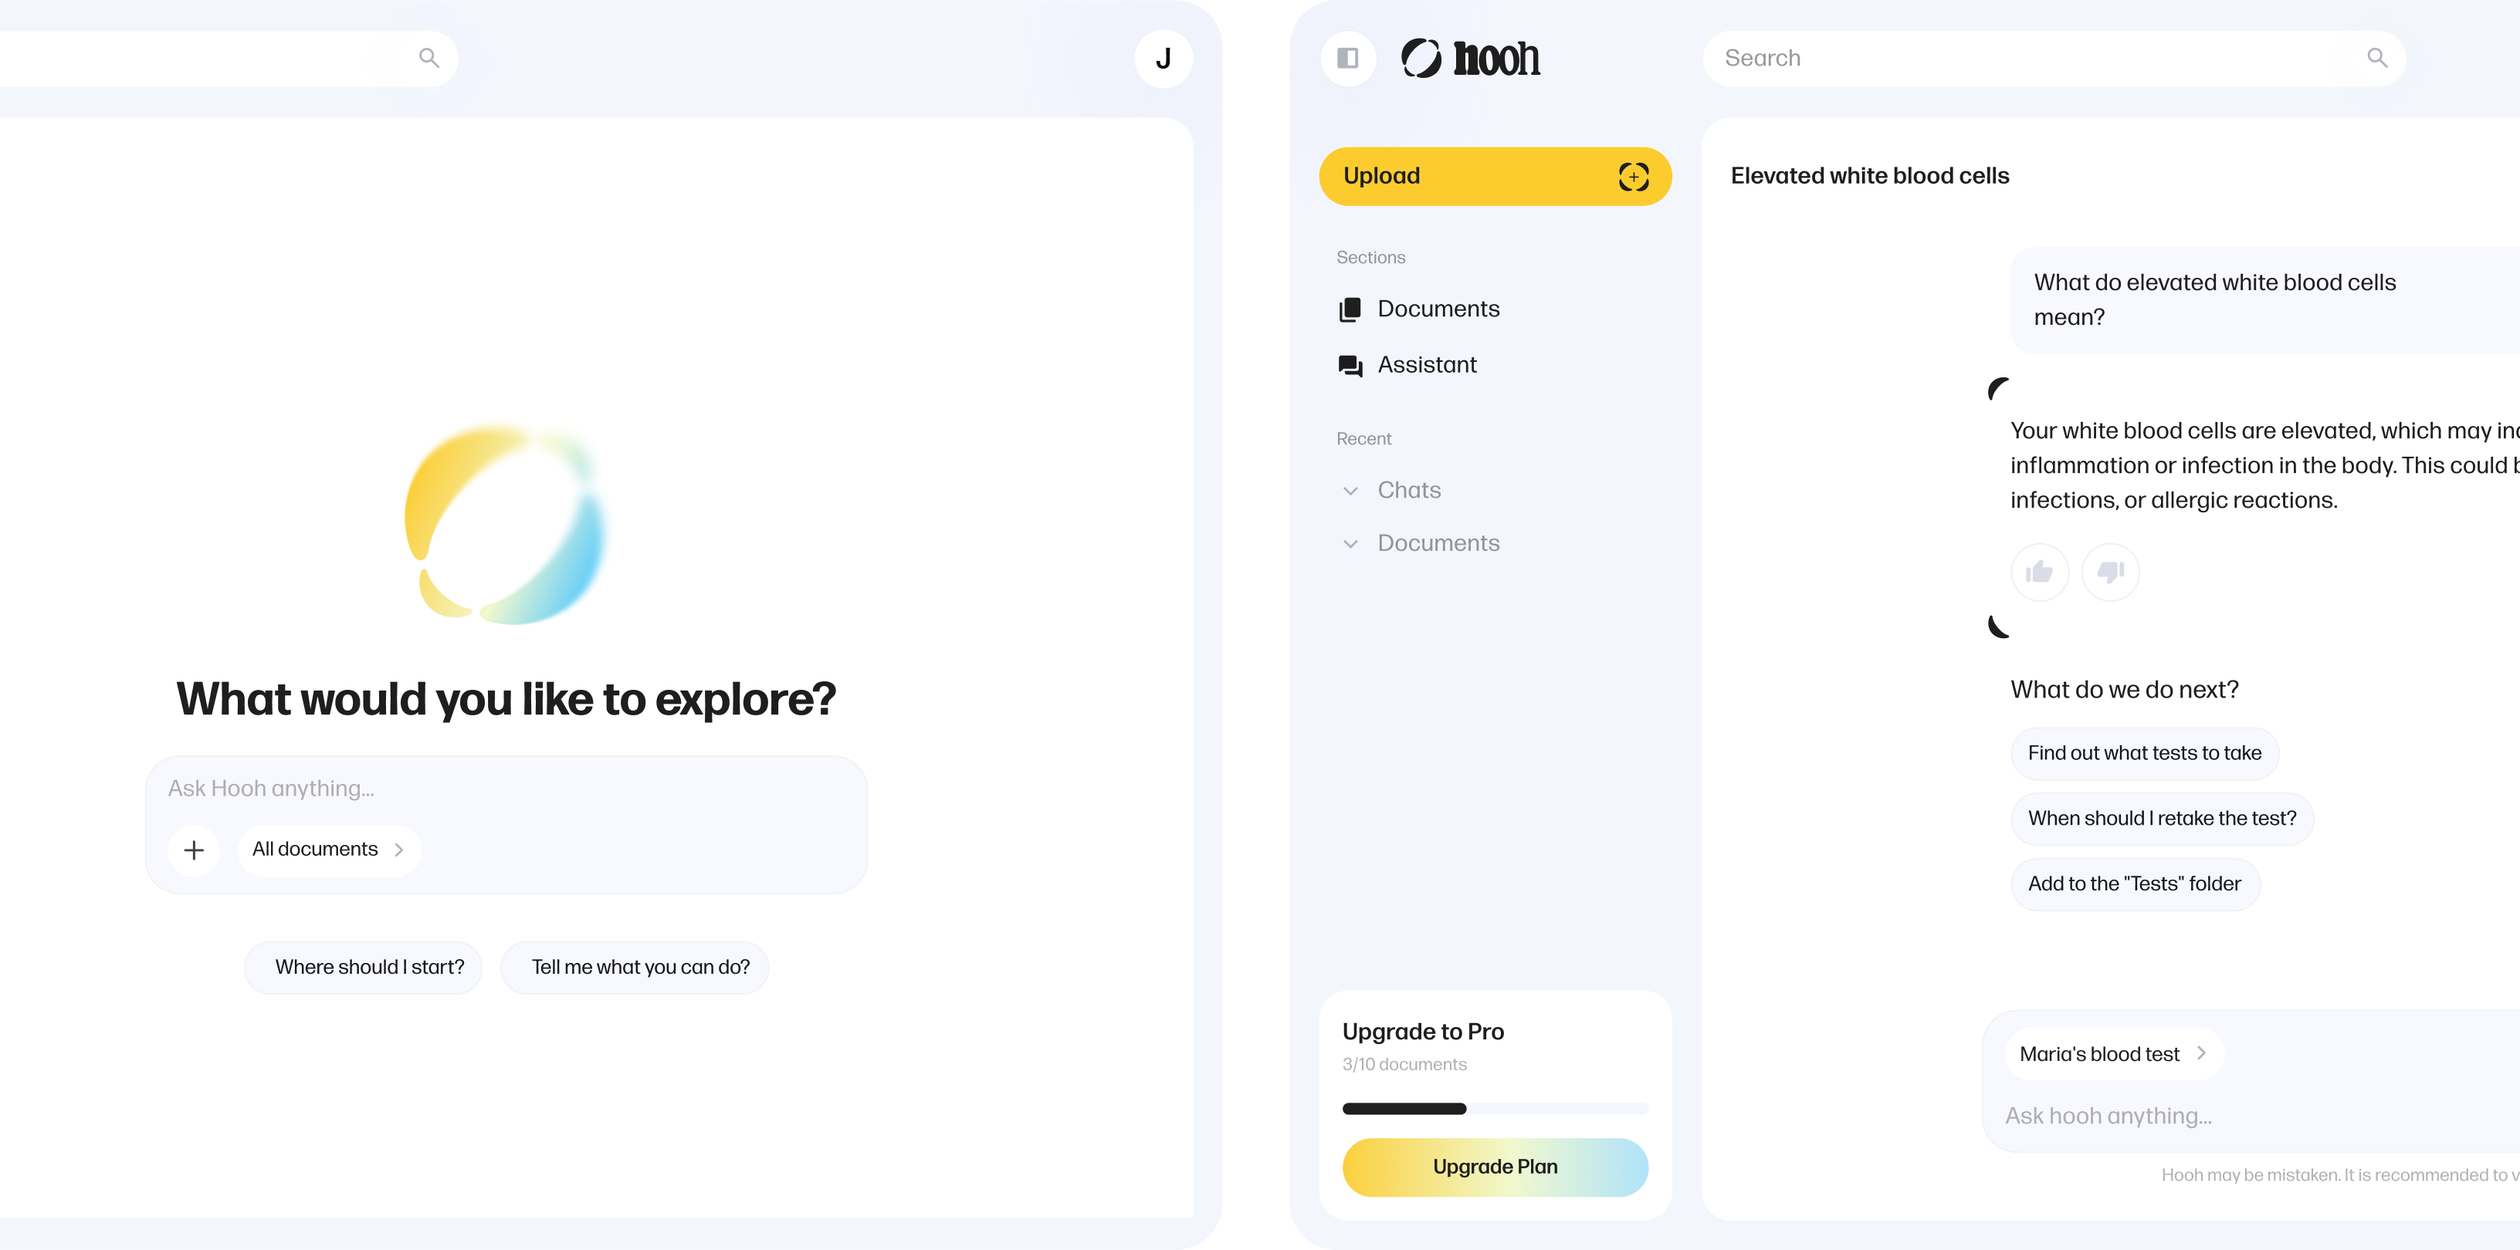
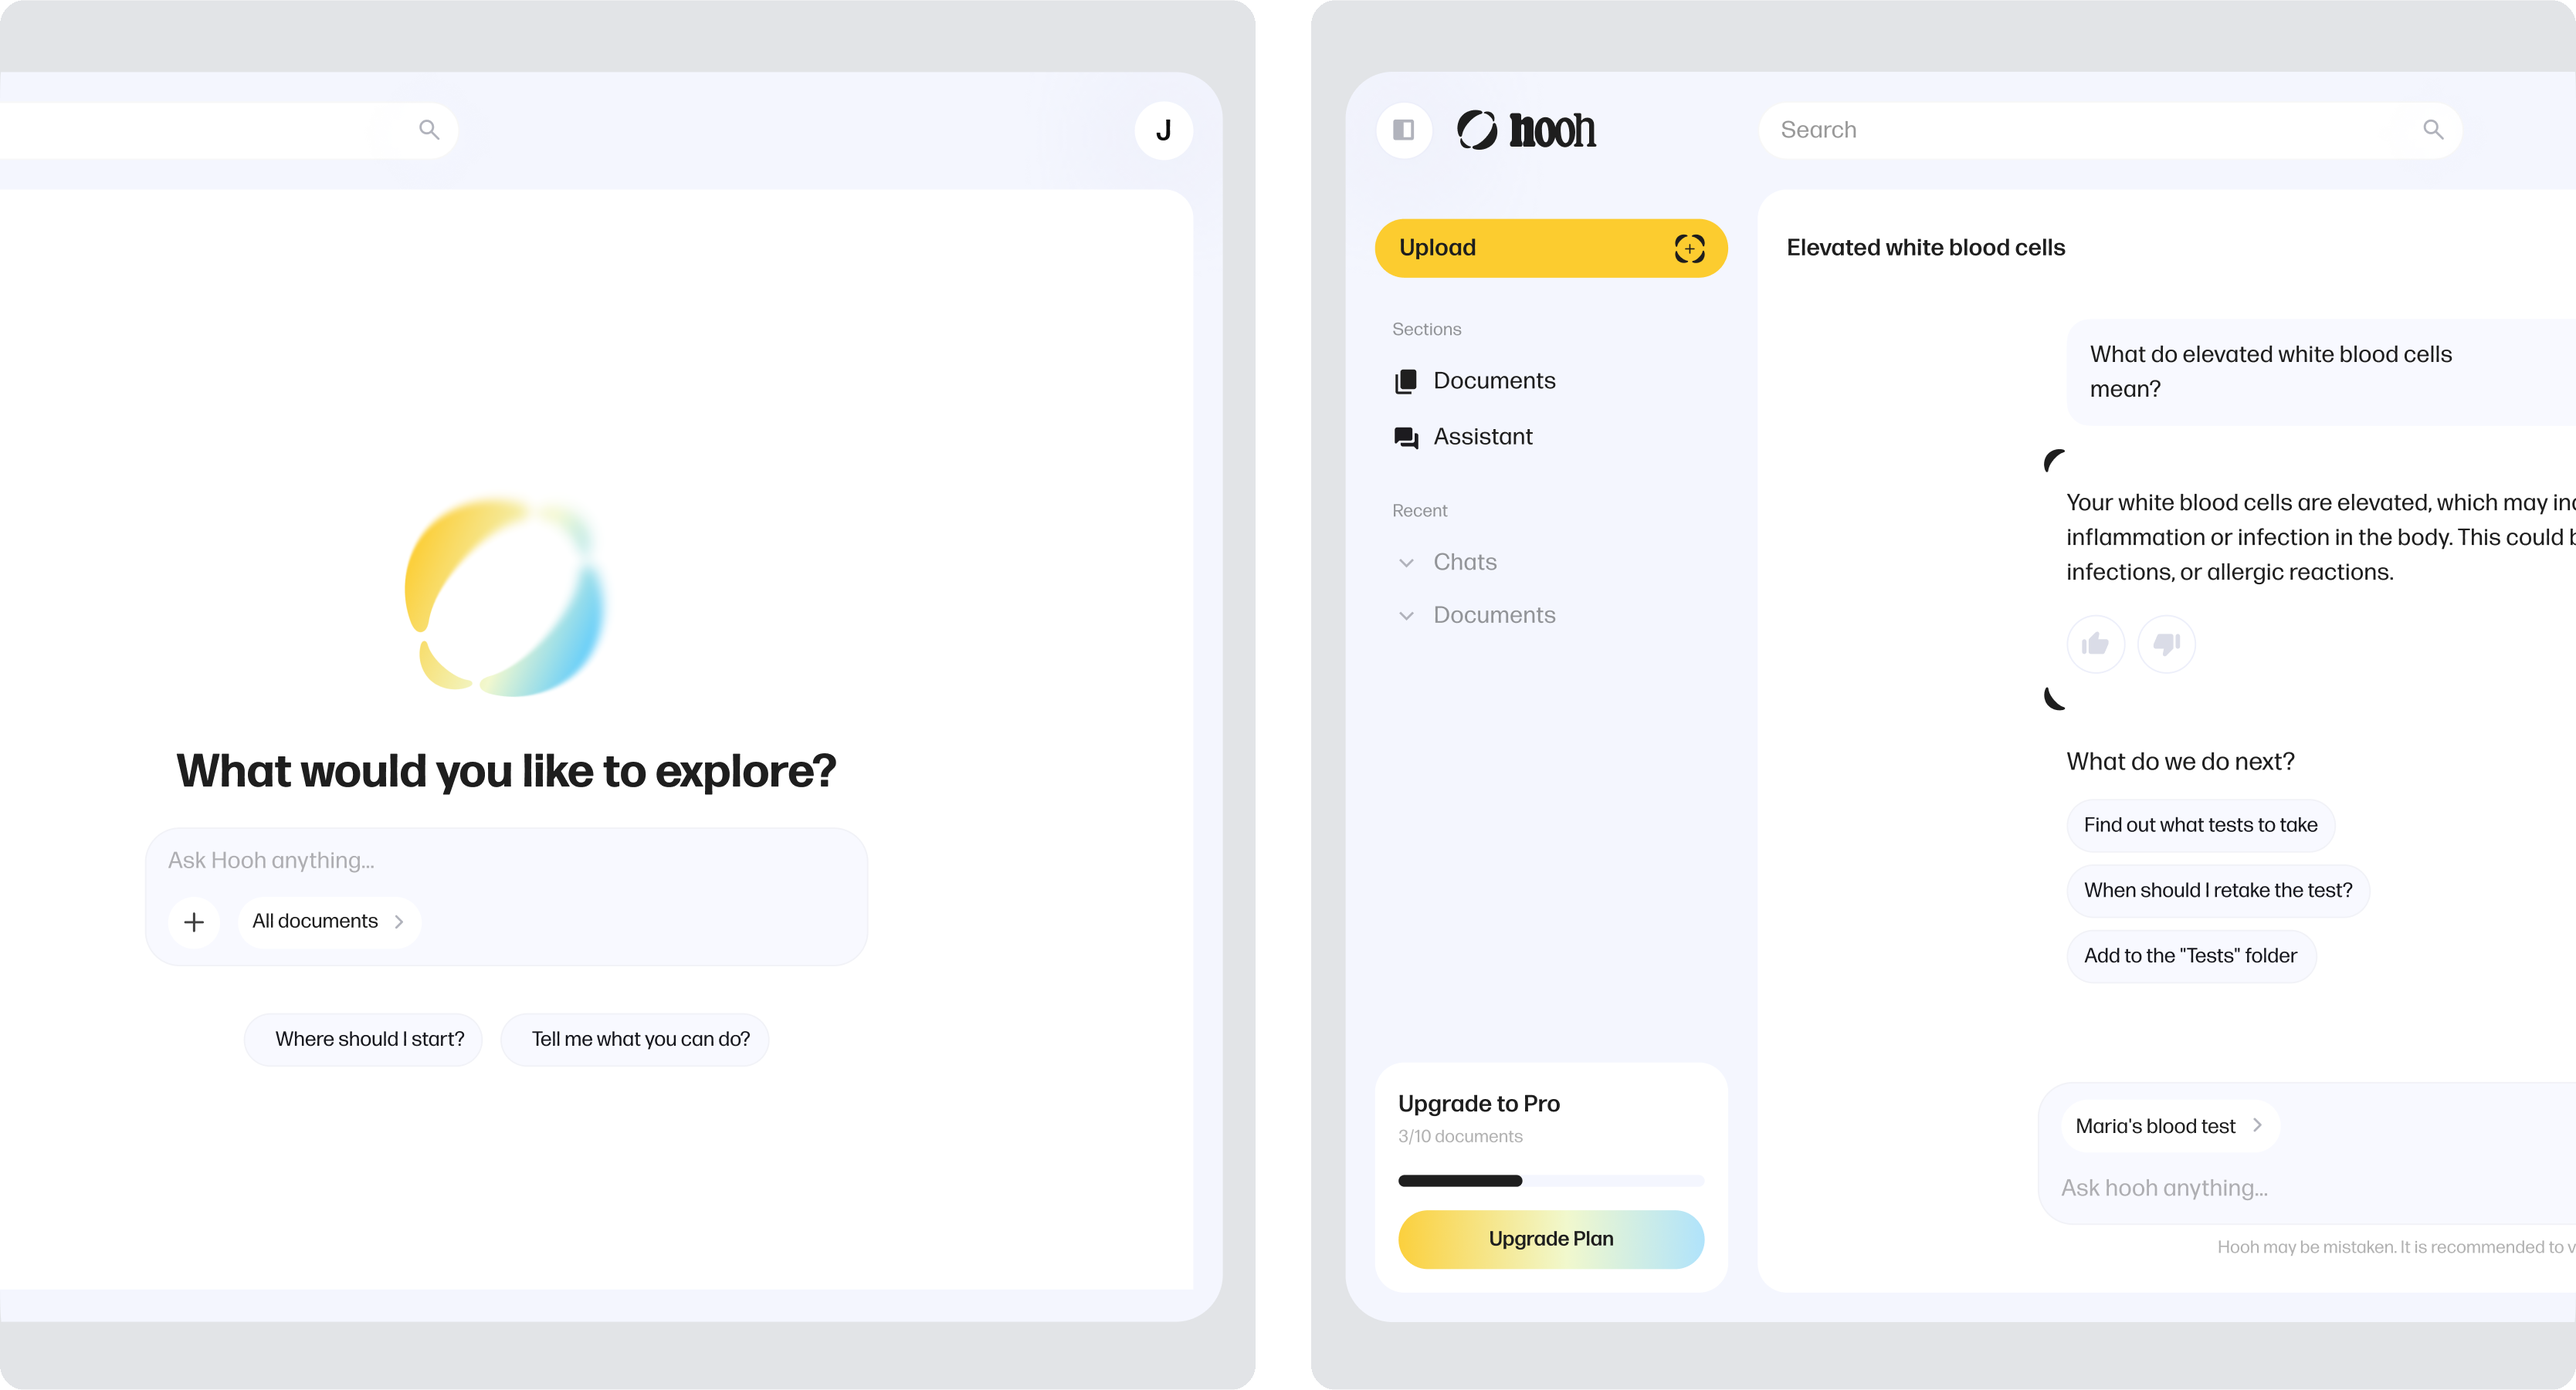
Hooh chatC: split single-plate reference into two separate gray plates
The latest reference had both panels on one continuous gray plate. Cut
the export at the midpoint of the 86px inner gap, round both halves'
corners (32px radius fits inside the ~43px gray padding on the cut
edge), and reassemble with a 72px transparent gap so chatC matches the
two-plate rhythm of chatA.

diff --git a/hooh.html b/hooh.html
@@ -165,7 +165,7 @@
         </figure>
 
         <figure class="case__figure">
-          <picture><img src="assets/case-chatC.webp?v=2" alt="Two desktop screens — a fresh Hooh Assistant prompt 'What would you like to explore?' and an in-progress chat about elevated white blood cells with follow-up suggestions" loading="lazy"></picture>
+          <picture><img src="assets/case-chatC.webp?v=3" alt="Two desktop screens — a fresh Hooh Assistant prompt 'What would you like to explore?' and an in-progress chat about elevated white blood cells with follow-up suggestions" loading="lazy"></picture>
         </figure>
       </section>
 
